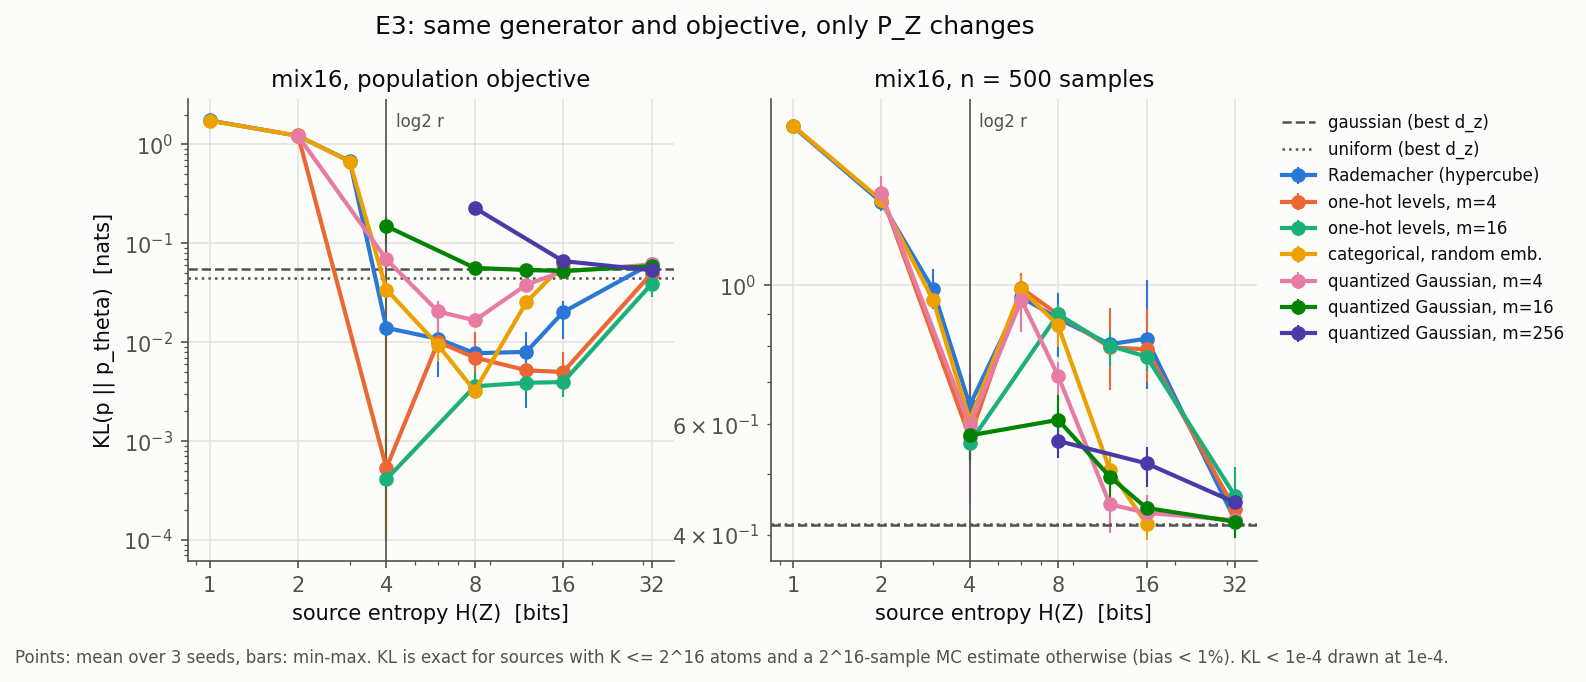
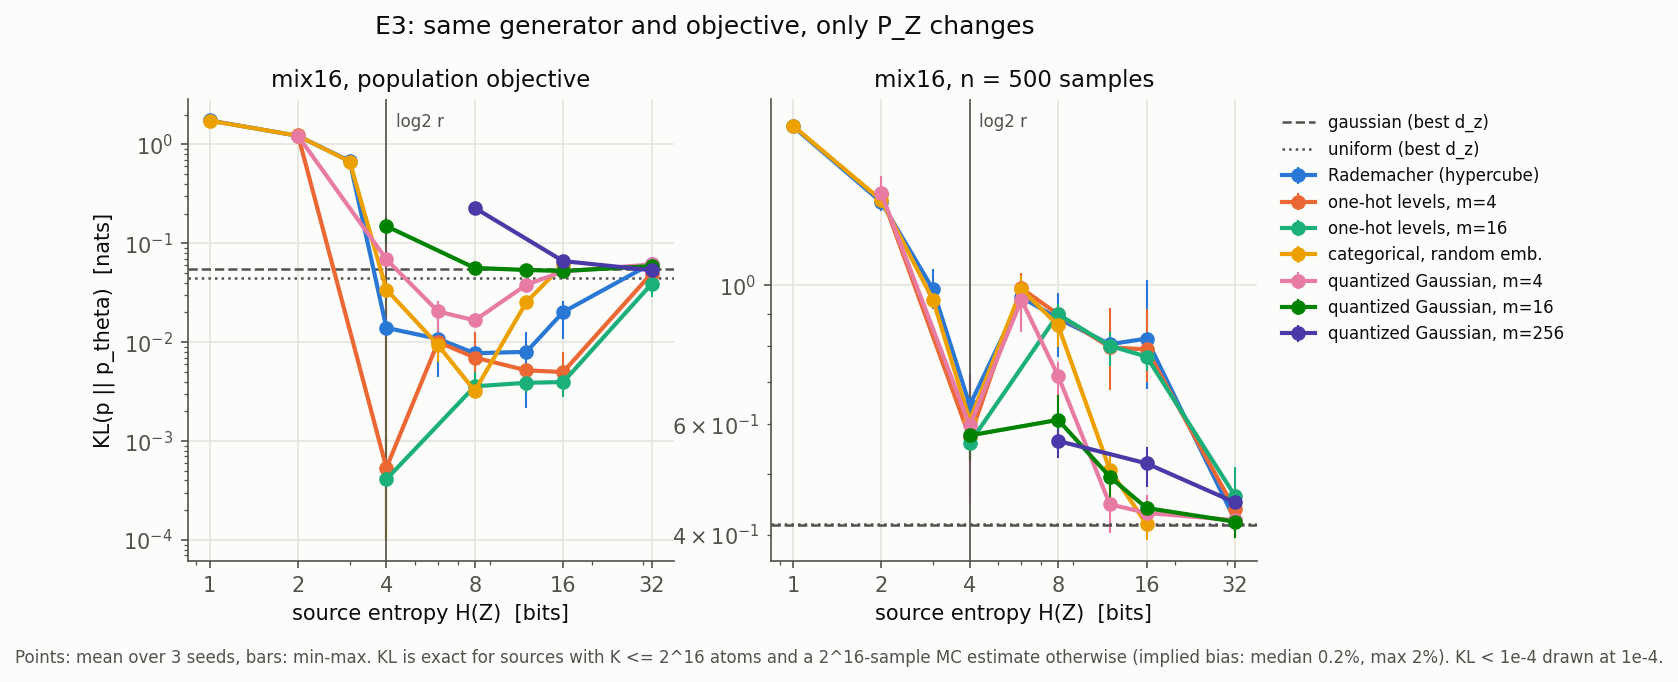
Final-check fixes: marginalization asymmetry, refined E7b, precise bounds and numbers
- E7b rerun at ds=0.0025 with marginal check every 20 steps (<= 9e-4 TV) and a ds vs 2ds
  Euler estimate (<= 0.007 nats, 0.005 bits): I = 1.31/1.25/0.64 bits, student KL 1.41/1.07/2.14
- Claim corrected: random jump times do not force a stochastic endpoint coupling; the precise
  asymmetry is that marginalizing an independent-coupling path yields a non-branching ODE in
  continuous space but a branching CTMC in discrete space; deterministic discrete couplings
  exist but must be constructed (KR, OT, rectification)
- rank bound stated on support size (Wyner common information in general)
- E8 ratios restricted to K>=64; Gaussian comparison by d; DFM points 10-14% above curves
  (verified on dense alpha sweep); copy kernel ratio 1.2-1.7x; README exceptions/objective scope

diff --git a/onestep-discrete/sweeps/e7b_dfm.py b/onestep-discrete/sweeps/e7b_dfm.py
@@ -37,7 +37,7 @@ def posterior_marginals(p, t, ohx):
     return (post @ ohx).view(-1, D.L, D.V)
 
 
-def dfm_joint(p, s_max=12.0, ds=0.005):
+def dfm_joint(p, s_max=12.0, ds=0.0025, check_every=20):
     """Joint P(X_0, X_T) of the marginal CTMC, T = 1 - exp(-s_max). Returns it and a marginal check."""
     S = len(p)
     ohx = onehot(D.STATES.to(DEV), D.V)
@@ -57,7 +57,7 @@ def dfm_joint(p, s_max=12.0, ds=0.005):
             inflow = G.movedim(1 + i, -1).sum(-1).movedim(-1, 1 + i)  # sum over old value v
             dP += (inflow - out).reshape(S, S)
         P = P + ds * dP
-        if k % 500 == 0:  # the marginal of X_t must equal p_t
+        if k % check_every == 0:  # the marginal of X_t must equal p_t
             pt = log_joint_t(p, 1 - math.exp(-(k + 1) * ds), ohx).logsumexp(1).exp()  # time after the step
             worst_tv = max(worst_tv, D.tv(pt, P.sum(0)))
     return P, worst_tv
@@ -72,9 +72,12 @@ def main():
         p = D.make(fam).to(DEV)
         P, worst_tv = dfm_joint(p)
         kl, mi, hz = student_from_joint(p, P.clamp_min(1e-300).log())
+        P2, _ = dfm_joint(p, ds=0.005, check_every=10**9)  # coarser step: Euler error estimate
+        kl2, mi2, _ = student_from_joint(p, P2.clamp_min(1e-300).log())
         res = {"family": fam, "tc": D.total_correlation(p), "H_bits": D.entropy(p) / math.log(2),
                "student_kl": kl, "I_bits": mi, "HZ_bits": hz, "mass": P.sum().item(),
-               "final_tv_to_p": D.tv(p, P.sum(0)), "max_tv_marginal_vs_pt": worst_tv}
+               "final_tv_to_p": D.tv(p, P.sum(0)), "max_tv_marginal_vs_pt": worst_tv,
+               "euler_diff_kl": kl2 - kl, "euler_diff_I_bits": mi2 - mi}  # ds vs 2*ds
         print(res, flush=True)
         out.write_text(json.dumps(res, indent=1))
 

diff --git a/onestep-discrete/plots.py b/onestep-discrete/plots.py
@@ -129,7 +129,7 @@ def fig_e3():
         ax.set_xticks([1, 2, 4, 8, 16, 32], [1, 2, 4, 8, 16, 32])
     axes[0][0].set_ylabel("KL(p || p_theta)  [nats]")
     fig.text(0.0, -0.06, "Points: mean over 3 seeds, bars: min-max. KL is exact for sources with K <= 2^16 atoms "
-             f"and a 2^16-sample MC estimate otherwise (bias < 1%). {FLOOR_NOTE}.", fontsize=8, color=INK2)
+             f"and a 2^16-sample MC estimate otherwise (implied bias: median 0.2%, max 2%). {FLOOR_NOTE}.", fontsize=8, color=INK2)
     axes[0][-1].legend(loc="upper left", bbox_to_anchor=(1.02, 1), fontsize=8)
     fig.suptitle("E3: same generator and objective, only P_Z changes", y=1.02)
     save(fig, "e3_sources.png")

diff --git a/REPORT.md b/REPORT.md
@@ -12,10 +12,11 @@ by Z. Every one-step generator that works well gets Z from **continuous** noise.
 > What exactly is missing from a discrete source of randomness? How much of it is
 > information theory (a hard limit), and how much is geometry and optimization (a soft limit)?
 
-## The answer in one paragraph
+## The answer
 
-Information theory gives a hard limit, and it is real but cheap. Z must carry at least log₂(rank)
-bits. Below that every source fails identically. Above it, **representation is not the problem**:
+Information theory gives a hard limit, and it is real but cheap. A uniform source needs at least
+rank(p) atoms, i.e. log₂K ≥ log₂ rank bits. (For non-uniform sources the general Shannon bound is
+Wyner's common information, which is ≤ log₂ rank.) Below that every source fails alike. Above it, **representation is not the problem**:
 with K atoms the achievable KL is tiny, and on an equal-weight mixture the best discrete sources
 (well-separated atoms) fit *better* than Gaussian. The plan's main conjecture H4 is **falsified as
 stated**. What discrete noise lacks is what one-step *training* relies on:
@@ -26,37 +27,43 @@ stated**. What discrete noise lacks is what one-step *training* relies on:
    means moving whole atoms. In the hard-assignment limit the mode masses are piecewise constant
    in θ. With softmax outputs, an atom moving between codewords must cross product distributions
    that leak onto non-codewords, and saturated atoms have vanishing gradients. Empirically the
-   allocation error is **flat (within ±6%) from step 1k to step 16k**. Total KL stays
-   **12× to more than 10⁴× above what the atoms could achieve**, and on unequal weights every
-   finite source but one fits *worse* than Gaussian. *(E8)*
+   allocation error is **flat (within ±6%) from step 1k to step 16k**. For K ≥ 64 atoms, total KL
+   stays **12× to more than 10⁴× above what the atoms could achieve**. On unequal weights the
+   best Gaussian (d = 2, 0.018) fits better than every finite source. *(E8)*
 2. **A deterministic noise → data transport to learn from.** At scale, one-step generators are
    trained by regressing onto a coupling (z, x) from a teacher or an encoder, because the
-   likelihood needs ~2^I(X;Z) source samples per step *(E6)*. A continuous state space has a
-   probability-flow ODE whose coupling is deterministic (for argmax-decoded tokens,
-   I(Z;X) = H(X)). A finite state space cannot have one. A deterministic map on a finite set
-   cannot split an atom's mass, and there are only finitely many such maps, so pushforward
-   probabilities are quantized and cannot follow a continuous marginal path p_t. Every
-   diffusion- or flow-style discrete teacher must inject fresh randomness, and its coupling is
-   **stochastic**. How much information survives depends on the sampler:
-   * the time-reversed noising chain started from its prior keeps none: **I(Z;X) = 0**, student
-     KL = TC(p) exactly, even with H(Z) = 12 bits;
-   * an exact **Discrete Flow Matching** teacher keeps a little: I = 1.25–1.30 bits of H(X) ≈ 8.6,
-     and the student KL is 1.07–1.41 vs TC 1.75–2.01.
+   likelihood needs ~2^I(X;Z) source samples per step *(E6)*. Generative teachers are built by
+   *marginalizing* a path between independent noise and data. The two state spaces then behave
+   differently:
+   * **Continuous space.** Averaging the conditional velocities gives one vector field, and ODE
+     trajectories cannot branch. The teacher's noise → data map is therefore deterministic for
+     free (for argmax-decoded tokens, I(Z;X) = H(X)).
+   * **Finite space.** Averaging the conditional rates gives a CTMC that can jump from one state
+     to several targets. It branches, so the coupling is **stochastic**:
+     * the time-reversed noising chain started from its prior keeps nothing: **I(Z;X) = 0**, and
+       the student's KL = TC(p) exactly, even with H(Z) = 12 bits;
+     * an exact **Discrete Flow Matching** teacher keeps a little: ~1.3 of ~8.6 bits on mix16
+       and Markov, with student KL 1.07–1.41 vs TC 1.75–2.01.
 
-   Either way the student is far from what a deterministic coupling would allow (KL → 0). *(E7, E7b)*
+   Deterministic discrete couplings do exist: an inverse-CDF sampler driven by Z, OT
+   assignments, special CTMCs, iterative rectification as in ReDi. But they have to be
+   *constructed* rather than obtained by marginalization, and they are only useful when the
+   source geometry is aligned with them (point 3). *(E7, E7b)*
 3. **Geometry aligned with that transport**, so the coupling is learnable on unseen z.
    Discreteness itself costs nothing here. On Markov data, an ordered 64-level grid of inverse-CDF
-   uniforms matches continuous uniforms (held-out token accuracy 0.865 vs 0.858). The *same source
+   uniforms matches continuous uniforms (held-out token accuracy 0.865 vs 0.858), and per-position
+   tokens aligned by Hamming-OT match a Gaussian OT coupling. The *same source
    law* with its levels shuffled falls to the best z-independent baseline (0.368 vs 0.379). *(E4)*
 
 So "one-step should be continuous" means: the source should be **atomless** so mass can flow; the
-training coupling should come from a **deterministic transport**, which only continuous-state
-dynamics provide; and the noise needs **geometry aligned with that transport**. Continuous noise
+training coupling should come from a **deterministic transport**, which continuous-state
+marginalization provides for free and discrete marginalization does not; and the noise needs
+**geometry aligned with that transport**. Continuous noise
 gives all three for free. Discrete noise supplies bits, but none of these by default.
 
 | | hard (information) | soft (optimization / geometry) |
 |---|---|---|
-| what limits | H(Z) ≥ log₂ rank(p). Below it every source fails (E1, E3). | mass allocation (E8); information *in the training coupling* (E7); coupling learnability (E4) |
+| what limits | K ≥ rank(p) atoms for a uniform source (Wyner's common information in general). Below it every source fails (E1, E3). | mass allocation (E8); information *in the training coupling* (E7); coupling learnability (E4) |
 | binding in practice? | only for mask-type noise (H(Z) = 0 ⇒ KL = TC exactly) | yes: these separate discrete from continuous |
 | continuous noise fixes it by | n/a | atomless source ⇒ mass moves with boundaries; ODE ⇒ deterministic coupling; metric ⇒ smooth coupling |
 
@@ -75,14 +82,18 @@ information **I(Z;X) of the training coupling**, not the entropy H(Z) of the sou
   * `code<r>`: r codewords of the distance-2 parity code, so rank = r exactly;
   * `zipf16`: 16 such codewords with Zipf weights.
 * **Generator**: MLP z → 256 → 256 → 6×4 logits, SiLU, Adam 1e-3 with cosine decay.
-* **Objective** (identical for every source): −Σₓ w(x) log (1/N) Σₙ ∏ᵢ p_θ(xᵢ|zₙ), with N = 256
-  fresh source samples per step and w = p (population) or the empirical distribution of n samples.
+* **Objective** (identical for every source within an experiment): −Σₓ w(x) log (1/N) Σₙ ∏ᵢ p_θ(xᵢ|zₙ),
+  with w = p (population) or the empirical distribution of n samples. E3 uses N = 256 fresh source
+  samples per step; E3b, E6, and E8 vary N or enumerate all atoms, as stated. E4 instead uses
+  supervised regression (CE) on fixed pairs.
 * **Metrics**: KL(p‖p_θ), TV, TC(p_θ). They are exact for finite sources with K ≤ 2¹⁶ atoms. For
-  continuous sources and larger K we use a 2¹⁶-sample MC estimate. Re-evaluating 151 MC runs with
+  continuous sources and larger K (including the H = 32 discrete sources) we use a 2¹⁶-sample MC
+  estimate. Re-evaluating 151 MC runs with
   2¹⁴ samples changes KL by a median of 0.5% (90th percentile 3%, max 10%), i.e. an implied bias
   of ≤ 3.4% (median 0.2%).
 * Each run writes one JSON (config, metrics, trajectory, wall time). Figures are built from the
-  JSONs only (`onestep-discrete/plots.py`). E3b, E6, and E7b use one seed; everything else uses 3.
+  JSONs only (`onestep-discrete/plots.py`). E3b and E6 use one seed, E7 and E7b are exact computations,
+  and everything else uses 3 seeds.
 
 ---
 
@@ -184,7 +195,7 @@ version answers the mechanistic question.
 | 1 | not enough bits | **real but cheap**; binding only for mask-type noise | E1, E3 |
 | 2 | discrete sources cannot represent the data | **no**; K atoms can represent it almost exactly | E3, E3b, E8 |
 | 3 | the likelihood objective does not scale | **true for every source** (continuous is worse), so practice uses couplings | E6 |
-| 4 | discrete teachers give poor couplings | **yes**: always stochastic; I = 0 for the reversed chain, partial for DFM | E7, E7b |
+| 4 | discrete teachers give poor couplings | **yes, for marginalized (independent-coupling) teachers**: I = 0 for the reversed chain, partial for DFM | E7, E7b |
 | 5 | discrete couplings are not learnable | **only without aligned geometry**; ordered discrete = continuous | E4 |
 | 6 | atomic sources cannot reallocate mass | **yes**: allocation flat for atoms, → 0 for continuous | E8 |
 
@@ -218,8 +229,9 @@ generates p_G(x) = Σ_z π(z) ∏ᵢ q(xᵢ|z). We compute it exactly for two te
   starting the reversed chain from the α-marginal, which is *not* the prior.
 * **E7b: Discrete Flow Matching teacher.** This is the marginal CTMC of the mixture path, started
   from Uniform(V^L), with rates P(X₁ᵢ = y | X_t)/(1−t). We integrate the forward Kolmogorov equation
-  for the joint of (X₀, X_t) over all 4,096 × 4,096 pairs; the marginal matches p_t to
-  ≤ 7·10⁻⁴ TV throughout.
+  for the joint of (X₀, X_t) over all 4,096 × 4,096 pairs (Euler in s = −log(1−t), step 0.0025).
+  The marginal matches p_t to ≤ 9·10⁻⁴ TV, checked every 20 steps. Doubling the step changes the
+  student KL by ≤ 0.007 nats and I by ≤ 0.005 bits.
 
 ![E7](onestep-discrete/figures/e7_teacher_coupling.png)
 
@@ -227,23 +239,28 @@ generates p_G(x) = Σ_z π(z) ∏ᵢ q(xᵢ|z). We compute it exactly for two te
 |---|---|---|---|
 | reversed noising chain (uniform prior) | 12 bits | **0 / 0 / 0** | 2.013 / 1.753 / 6.931 (= TC) |
 | reversed masking chain (all-mask prior) | 0 bits | 0 / 0 / 0 | = TC |
-| DFM marginal CTMC (uniform prior) | 12 bits | 1.30 / 1.25 / 0.64 | 1.41 / 1.07 / 2.15 |
+| DFM marginal CTMC (uniform prior) | 12 bits | 1.31 / 1.25 / 0.64 | 1.41 / 1.07 / 2.14 |
 | *deterministic coupling (e.g. ODE + argmax)* | | *= H(X): 8.7 / 8.6 / 2.0* | *→ 0* |
 
 * Twelve bits of prior noise give nothing through the reversed chain. A DFM teacher recovers
   30–69% of TC, but its coupling is still stochastic, so a one-step student cannot get close.
-* On mix16 and Markov the student's error is essentially a function of the coupling's I(Z;X), and
-  the DFM points fall on the forward-joint curves. On copy the masking kernel is 1.7–2.6× better
-  than the uniform kernel at equal I, because one unmasked token pins the whole sequence.
-* Why discrete teachers are stochastic: a deterministic map on a finite set cannot split an atom's
-  mass, and there are only finitely many maps. So deterministic dynamics give quantized
-  pushforward probabilities and cannot follow a continuous marginal path p_t, and any
-  diffusion/flow-style discrete sampler must inject fresh randomness. Continuous diffusion's SDE
-  sampler has the same problem (I(Z_T; X₀) → 0), but it also has a probability-flow ODE with the
-  same marginals and a deterministic coupling. That is what consistency models, flow maps,
-  MeanFlow, FMLM, and Duo distill.
-* A one-shot deterministic map with discrete noise does exist (E4's KR coupling). But it is the
-  sampler with its per-step uniforms moved into Z: continuous or ordered noise.
+* The student's error is mostly a function of the coupling's I(Z;X). On mix16 and Markov the DFM
+  points sit 10–14% above the forward-joint curves at the same I. On copy the masking kernel is
+  1.2–1.7× better than the uniform kernel at equal I, because one unmasked token pins the whole
+  sequence.
+* Why marginalized discrete teachers are stochastic: a teacher is built by averaging conditional
+  dynamics over an independent coupling of noise and data. In continuous space the average is a
+  velocity field, ODE trajectories cannot branch, and the endpoint map is deterministic.
+  Continuous diffusion's SDE sampler is as uninformative as the reversed chain
+  (I(Z_T; X₀) → 0), but its probability-flow ODE has the same marginals and a deterministic
+  coupling. That is what consistency models, flow maps, MeanFlow, FMLM, and Duo distill. In a
+  finite space the average is a jump-rate matrix: from one state the chain can jump to several
+  targets, so the endpoint is random given the start.
+* Deterministic discrete couplings are possible, but they must be built rather than inherited.
+  Examples: E4's inverse-CDF (KR) map, which moves the sampler's per-step uniforms into Z;
+  OT assignments; CTMCs whose state remembers the start (an independent reviewer gave one that
+  maps uniform noise to `copy` deterministically); and iterative rectification as in ReDi. Such
+  couplings are only learnable when the source geometry is aligned with them (E4).
 
 ### (5) A deterministic coupling is learnable iff the source geometry is aligned with it (E4)
 
@@ -289,15 +306,18 @@ upper bound on the best total KL with K atoms.
 | source | total KL | achievable with K atoms | allocation @1k → @16k | leakage @1k → @16k |
 |---|---|---|---|---|
 | categorical K = 16 / 64 / 256 / 1024 / 4096 | 0.454 / 0.065 / 0.059 / 0.060 / 0.036 | 0.41 / 0.0054 / 3·10⁻⁴ / 2·10⁻⁵ / 10⁻⁶ | 0.28 / 0.065 / 0.055 / 0.049 / 0.028 → same ±6% | 0.17 / 0.000 / 0.011 / 0.022 / 0.021 → 0.17 / 0.000 / 0.003 / 0.011 / 0.008 |
-| Rademacher d = 4 / 6 / 8 / 10 / 12 | 0.659 / 0.123 / 0.055 / 0.052 / 0.025 | same as K = 2^d | 0.45 / 0.12 / 0.053 / 0.050 / 0.022 → same ±6% | 0.21 / 0.006 / 0.006 / 0.006 / 0.010 → 0.21 / 0.005 / 0.003 / 0.001 / 0.003 |
+| Rademacher d = 4 / 6 / 8 / 10 / 12 | 0.659 / 0.123 / 0.055 / 0.052 / 0.024 | same as K = 2^d | 0.45 / 0.12 / 0.053 / 0.050 / 0.022 → same ±6% | 0.21 / 0.006 / 0.006 / 0.006 / 0.010 → 0.21 / 0.005 / 0.003 / 0.001 / 0.003 |
 | Gaussian d = 2 / 4 / 8 | **0.018 / 0.027 / 0.027** | n/a | 0.003 / 0.004 / 0.005 → **0.0002 / 0.0003 / 0.0003** | 0.10 / 0.12 / 0.13 → 0.018 / 0.027 / 0.026 |
 
-* Finite sources settle their mass allocation in the first 1k steps and then barely move it. Their
-  total KL is 12× (K = 64) to more than 10⁴× (K = 4096) above what their atoms could achieve.
+* Finite sources settle their mass allocation in the first 1k steps and then barely move it. For
+  K ≥ 64 their total KL is 12× (K = 64) to more than 10⁴× (K = 4096) above what their atoms could
+  achieve. At K = 16 the gap is 1.1–1.6×, and two categorical seeds even beat the achievable value
+  by spreading atoms over codewords: it is an upper bound on the optimum, not a lower bound.
 * The Gaussian source gets the allocation right. Its residual allocation error (~2·10⁻⁴) is about
   half evaluation noise: the multinomial bias of a 2¹⁶-sample estimate over 16 modes is ≈1.1·10⁻⁴.
-  All its remaining error is boundary leakage, which keeps shrinking. On total KL it beats every
-  finite source except Rademacher d = 12, which ties it (0.025).
+  All its remaining error is boundary leakage, which keeps shrinking. On total KL, Gaussian d = 2
+  (0.018) beats every finite source. Rademacher d = 12 (0.024) beats Gaussian d = 4 and 8
+  (0.027).
 * Mechanism. For a continuous source with a density, the hard-partition mass P(z ∈ R_c(θ)) has a
   derivative equal to the flux of source density through the moving boundary ∂R_c, so mass flows
   under gradient descent. For an atomic source that quantity is piecewise constant. With soft
@@ -318,14 +338,16 @@ upper bound on the best total KL with K atoms.
 * **If the noise must be discrete, make it dense and ordered, aligned with the coupling.**
   Quantized uniforms driving an inverse-CDF sampler, or Hamming-OT-aligned tokens, are as learnable
   as continuous noise. Unordered symbols are not.
-* **A discrete teacher is a weak source of couplings.** Its reversed chain gives I(Z;X) = 0 at the
-  prior, and even an exact DFM teacher keeps only ~1.3 of ~8.6 bits.
+* **A marginalized discrete teacher is a weak source of couplings.** Its reversed chain gives
+  I(Z;X) = 0 at the prior, and even an exact DFM teacher keeps only ~1.3 of ~8.6 bits. Build
+  the coupling instead (OT, inverse-CDF, rectification), with aligned geometry.
 
 ## Limitations
 
 * Toy scale: L = 6, V = 4, one MLP architecture, fixed budgets (4k–16k steps). Effects that only
   appear at scale (attention, long sequences) are not tested.
-* E3b, E6, and E7b use one seed (E7b is deterministic up to Euler error ≤ 7·10⁻⁴ TV).
+* E3b and E6 use one seed. E7b is deterministic; its Euler discretization moves the reported
+  numbers by ≤ 0.007 nats and ≤ 0.005 bits.
 * E4 trains G on 3,276 pairs, so its deployed KL is dominated by memorization and the held-out law
   uses only 820 atoms for code/one-hot. We report held-out accuracy as the learnability metric.
   The FM teacher in E4 is imperfect on mix16 (target TV 0.36 vs a 0.18 sampling floor); an

diff --git a/onestep-discrete/results/agy_review4.md b/onestep-discrete/results/agy_review4.md
@@ -1,0 +1,62 @@
+1.
+Location: onestep-discrete/sweeps/e7b_dfm.py (lines 60-62); REPORT.md (lines 221-222, 230, 328)
+Claim: e7b_dfm.py logs max_tv_marginal_vs_pt as a marginal check throughout integration; REPORT.md (lines 221-222) claims "the marginal matches p_t to <= 7e-4 TV throughout", and REPORT.md (line 328) claims "E7b is deterministic up to Euler error <= 7e-4 TV".
+Truth: The DFM marginal CTMC rates, forward Kolmogorov equation, inflow/outflow tensor indexing, and s = -log(1 - t) time change are correct (verified to 3.1e-13 TV against scipy DOP853 on V = 3, L = 3), but the marginal check and reported error bound are wrong in three ways:
+  (a) Even in the saved JSONs, onestep-discrete/results/e7/markov_dfm.json has max_tv_marginal_vs_pt = 0.0007121 (7.12e-4), which already exceeds 7e-4.
+  (b) e7b_dfm.py line 60 checks only `if k % 500 == 0:`, evaluating 5 of 2,400 steps (k = 0, 500, 1000, 1500, 2000, i.e. t = 0.005, 0.918, 0.993, 0.9994, 0.99995) and skipping t in (0.005, 0.918) where the Euler marginal TV error peaks. Checking across the full trajectory gives peak marginal TV against p_t of 7.10e-4 on mix16 (at k = 190, t = 0.615; logged 5.38e-4), 8.88e-4 on markov (at k = 170, t = 0.575; logged 7.12e-4), and 1.80e-3 on copy (at k = 240, t = 0.700; logged 5.54e-4, understated by 3.25x).
+  (c) REPORT.md line 328 conflates marginal TV with Euler error of the joint coupling and student metrics. On copy, refining ds from 0.005 to 0.001 shifts student_kl from 2.1482 to 2.1366 (Richardson limit ~2.134, ~0.015 nats Euler error) and I_bits from 0.6414 to 0.6453 (limit ~0.646, ~0.005 bits), affecting the last reported decimal digit for copy in REPORT.md line 230 (2.15 and 0.64 vs true CTMC ~2.13 and 0.65).
+Confidence: High
+
+2.
+Location: README.md (lines 16, 22); REPORT.md (lines 30, 295-296)
+Claim: In E8, finite sources' total KL is "12x-10^4x above what the atoms allow" (README.md:16), "far above what their K atoms could achieve (dashed)" (README.md:22), "12x to more than 10^4x above what the atoms could achieve" (REPORT.md:30), and "Their total KL is 12x (K = 64) to more than 10^4x (K = 4096) above what their atoms could achieve" (REPORT.md:295-296).
+Truth: E8 also tests K = 16 (categorical K = 16 and Rademacher d = 4), where onestep-discrete/results/e8/floors.json gives 0.4137. Mean total KL is 0.4539 for categorical K = 16 (1.10x, not >= 12x) and 0.6586 for Rademacher d = 4 (1.59x). Furthermore, two of three categorical K = 16 seeds (s0: 0.3875, s2: 0.3786; s1: 0.5955) beat 0.4137, showing that README.md's phrasing "what the atoms allow" overstates achievable(K) (which REPORT.md:284-285 correctly defines as an upper bound from sharp single-codeword assignment, not a hard lower bound). The 12x to >10^4x range (12.1x to 35,570x) applies only to K >= 64.
+Confidence: High
+
+3.
+Location: REPORT.md (lines 30-31, 292, 299-300)
+Claim: The E8 table (line 292) gives Rademacher d = 12 total KL as 0.025; lines 30-31 state "on unequal weights every finite source but one fits worse than Gaussian"; lines 299-300 state "On total KL it beats every finite source except Rademacher d = 12, which ties it (0.025)."
+Truth: In onestep-discrete/results/e8/zipf16_pop_quantized_d12_m2_Nenum_s{0,1,2}.json, the three seeds are 0.012578, 0.032567, and 0.028207, whose mean is 0.024451, rounding to 0.024 rather than 0.025. Also, the Gaussian comparison depends on d: Gaussian d = 2 (0.0178) beats every finite source (including Rademacher d = 12, which is 38% worse), whereas Gaussian d = 4 (0.0270) and d = 8 (0.0266) are beaten by Rademacher d = 12 (0.0245). It approximates a tie only against the unstated pooled mean across Gaussian d = 2, 4, 8 (0.0238).
+Confidence: High
+
+4.
+Location: REPORT.md (lines 236-237)
+Claim: "On copy the masking kernel is 1.7-2.6x better than the uniform kernel at equal I, because one unmasked token pins the whole sequence."
+Truth: On copy, the masking kernel's exact student KL at mutual information I (bits) is KL_mask(I) = -log(I/2 + (1 - I/2) * 4^-5). Comparing exact uniform student_law against exact KL_mask(I) at identical I across all uniform rows in onestep-discrete/results/e7/copy.json (alpha = 0.02..0.9, I = 0.005..1.998) yields KL_unif / KL_mask = 1.21-1.73x (and 1.61-1.74x over a dense sweep I in [0.1, 1.98]; even at alpha = 0.999, 2 - I = 9.6e-10, the ratio is 1.91x). The 2.6x figure is an artifact of log-linearly interpolating between coarse mask rows in copy.json (alpha = 0.3 and 0.5) at I = 1.9067, which underestimates KL_mask as 0.0296 instead of 0.0477 (0.0774 / 0.0296 = 2.62 vs true 1.62).
+Confidence: High
+
+5.
+Location: README.md (lines 17, 33); REPORT.md (lines 43-44, 322)
+Claim: README.md line 33 (caption for e7_teacher_coupling.png, which plots stars for copy, markov, and mix16) states "An exact Discrete Flow Matching teacher (stars) keeps ~1.3 bits and the student is still far from the data." README.md line 17, REPORT.md lines 43-44, and REPORT.md line 322 cite ~1.3 of 8.6 bits (or I = 1.25-1.30 bits of H(X) ~ 8.6, student KL 1.07-1.41 vs TC 1.75-2.01) without specifying that this excludes copy.
+Truth: Per onestep-discrete/results/e7/copy_dfm.json, the copy DFM star is at I = 0.641 bits out of H(X) = 2.000 bits (32% of H(X), student KL 2.148 vs TC 6.931, recovering 69% of TC), not ~1.3 bits. Only markov (1.250 of 8.559 bits) and mix16 (1.304 of 8.704 bits) lie in the 1.25-1.30 of ~8.6 range.
+Confidence: High
+
+6.
+Location: REPORT.md (lines 235-236)
+Claim: "On mix16 and Markov the student's error is essentially a function of the coupling's I(Z;X), and the DFM points fall on the forward-joint curves."
+Truth: At DFM's exact I(Z; X), DFM student KL is 10-14% higher than both forward-joint curves rather than on them: on mix16 (I = 1.3038 bits), DFM KL is 1.4147 vs uniform forward-joint 1.2819 (+10.4%) and mask forward-joint 1.2726 (+11.2%); on markov (I = 1.2498 bits), DFM KL is 1.0693 vs uniform 0.9360 (+14.2%) and mask 0.9589 (+11.5%).
+Confidence: High
+
+7.
+Location: README.md (lines 5-6, 97-98); embedded E3 figure via onestep-discrete/plots.py (line 132) in REPORT.md (line 126)
+Claim: README.md lines 5-6 state "The one exception is continuous noise, which uses large-sample estimates with < 4% bias." README.md lines 97-98 state "One generator (MLP, 3 layers, width 256) and one objective for every source: ... with N = 256 fresh samples per step. Only P_Z changes." The E3 figure footnote (plots.py:132, rendered in REPORT.md:126) states "bias < 1%".
+Truth: Continuous noise is not the only exception: exact.py line 32 also uses 2^16-sample MC evaluation for finite sources with K > 2^16, and 39 of the 151 MC-evaluated runs in results/ (exact_eval: false) are discrete (H = 32 configs in E3 and E3b), as README.md lines 99-100 itself notes. In addition, N = 256 describes E3, not all experiments: E8 uses the enumerated objective for finite sources and N = 1024 for Gaussian, E3b uses N = 256 and 1024, E6 sweeps N in {16..4096} plus enumerated, and E4 uses supervised regression CE (plus width 512 for the FM velocity net). Finally, within E3 itself, the quarter-N implied bias (kl_quarter - kl) / (3 * kl) reaches 2.07% (onestep-discrete/results/e3/mix16_pop_onehot_d8_m16_N256_s2.json), exceeding the "< 1%" printed in the E3 figure footnote.
+Confidence: High
+
+8.
+Location: README.md (line 17); REPORT.md (lines 36-40, 52-54, 238-241, 321-322)
+Claim: Because a deterministic map on a finite set cannot follow a continuous marginal path p_t, "Every diffusion- or flow-style discrete teacher must inject fresh randomness, and its coupling is stochastic" (REPORT.md:38-40; similarly README.md:17 and REPORT.md:238-241), and "the training coupling should come from a deterministic transport, which only continuous-state dynamics provide" (REPORT.md:53-54).
+Truth: Stochastic intermediate dynamics (random jump times in a CTMC) do not imply a stochastic endpoint coupling (X_0, X_1). Counterexample on copy: start X_0 ~ Uniform(V^L), keep position 0 fixed (rate 0), and for i = 1..5 jump x_i -> x_0 at rate 1 / (1 - t) whenever x_i != x_0. This finite-state CTMC realizes the smooth continuous marginal path p_t(x) = (1/V) prod_{i>=1} [t 1[x_i = x_0] + (1 - t)/V] from Uniform(V^L) to copy, yet yields the 100% deterministic endpoint coupling X_1 = (X_{0,0}, ..., X_{0,0}) a.s., with I(X_0; X_1) = H(X_1) = 2 bits and student KL = 0. Even for non-quantized targets mix16 and markov, monotone couplings from Uniform(4096) retain 8.43 / 8.70 (96.8%) and 8.28 / 8.56 (96.7%) of H(X). What limits E7b's DFM teacher to 1.25-1.30 bits (or 0.64 on copy) is specifically the independent-coupling (p_0 x p_1) uniform mixture path, not finiteness of the state space alone; coupled or rectified discrete flows (such as OT-DFM or ReDi) are not tested.
+Confidence: High
+
+9.
+Location: README.md (line 15); REPORT.md (lines 17, 59)
+Claim: "H(Z) >= log2 rank(p)" (README.md:15, REPORT.md:59) and "Information theory gives a hard limit, and it is real but cheap. Z must carry at least log2(rank) bits. Below that every source fails identically." (REPORT.md:17).
+Truth: Nonnegative tensor rank lower-bounds support size |supp(Z)| >= rank_+(p), i.e. Hartley entropy log2 |supp(Z)| >= log2 rank_+(p), not Shannon entropy H(Z) in general. They coincide only for uniform finite sources (the ones tested in E3). Counterexample from this repo: zipf16 has rank_+(p) = 16 (log2 rank = 4.0 bits), yet a non-uniform discrete source Z ~ Zipf(16) achieves KL = 0 with H(Z) = H(zipf16) = 3.403 bits < 4.0. The general information-theoretic lower bound on H(Z) is multi-partite Wyner common information C_W(p) <= log2 rank_+(p).
+Confidence: High
+
+10.
+Location: README.md (line 18)
+Claim: In the summary table row "geometry aligned with that transport, to generalize to unseen z", discrete noise works "only if ordered (ordered 64-level ~ continuous; shuffled = z-independent baseline) | E4".
+Truth: E4 also tests discrete per-position token codes with Hamming-OT (code, which has Hamming/factorial geometry rather than 1-D order) and obtains 0.853 / 0.837 held-out token accuracy (markov / mix16), outperforming continuous Gaussian OT (0.823 / 0.775). Saying "only if ordered" over-narrows aligned geometry to 1-D order (whereas REPORT.md lines 188 and 319 state it accurately by including Hamming-OT tokens).
+Confidence: High

diff --git a/README.md b/README.md
@@ -2,8 +2,9 @@
 
 **Why does every good one-step generator, including the discrete ones, get its randomness from
 continuous noise?** This repo answers that with a small mechanism study: 6 positions × 4 tokens =
-4,096 states, so every distribution is enumerated and the metrics are exact. The one exception is
-continuous noise, which uses large-sample estimates with < 4% bias.
+4,096 states, so every distribution is enumerated and the metrics are exact. The exceptions are
+continuous noise and discrete sources with more than 2¹⁶ atoms, which use large-sample estimates
+(bias ≤ 3.4%).
 
 **Short answer:** bits are not the problem, and neither is representation. With enough entropy,
 discrete noise can represent the data almost exactly. On an equal-weight mixture, well-separated
@@ -12,15 +13,15 @@ discrete atoms even fit *better* than Gaussian noise. What discrete noise lacks 
 
 | what one-step training needs | continuous noise | discrete noise | evidence |
 |---|---|---|---|
-| **enough bits**: H(Z) ≥ log₂ rank(p) | ✓ | ✓ for uniform tokens (✗ for masks: KL = TC exactly) | E1, E2, E3 |
-| **mass that can move between modes** | ✓ mass slides with decision boundaries | ✗ allocation flat from step 1k to 16k, 12×–10⁴× above what the atoms allow | E8 |
-| **a deterministic noise→data transport** to distill from | ✓ probability-flow ODE | ✗ no deterministic transport along a continuous path on a finite set, so teacher couplings are stochastic (I(Z;X) = 0 for the reversed chain, ~1.3 of 8.6 bits for an exact DFM teacher) | E7, E7b, E6 |
-| **geometry aligned with that transport**, to generalize to unseen z | ✓ | only if ordered (ordered 64-level ≈ continuous; shuffled = z-independent baseline) | E4 |
+| **enough bits**: ≥ rank(p) atoms (log₂K ≥ log₂ rank) | ✓ | ✓ for uniform tokens (✗ for masks: KL = TC exactly) | E1, E2, E3 |
+| **mass that can move between modes** | ✓ mass slides with decision boundaries | ✗ allocation flat from step 1k to 16k; for K ≥ 64 total KL 12×–10⁴× above what the atoms could achieve | E8 |
+| **a deterministic noise→data transport** to distill from | ✓ marginalizing velocities gives an ODE that cannot branch | ✗ marginalizing jump rates gives a branching CTMC, so teacher couplings are stochastic (I(Z;X) = 0 for the reversed chain, ~1.3 of 8.6 bits for an exact DFM teacher); deterministic ones must be constructed | E7, E7b, E6 |
+| **geometry aligned with that transport**, to generalize to unseen z | ✓ | only if aligned: order or Hamming structure (ordered 64-level ≈ continuous, Hamming-OT tokens ≈ Gaussian OT; shuffled or one-hot = z-independent baseline) | E4 |
 
 ![mass allocation](onestep-discrete/figures/e8_mass.png)
 
-*E8. Left: total KL of finite sources is far above what their K atoms could achieve (dashed);
-Gaussian is better. Right: each KL is split exactly into mass-allocation error and leakage. Atomic
+*E8. Left: for K ≥ 64, total KL of finite sources is far above what their K atoms could achieve
+(dashed, an upper bound on the optimum); the best Gaussian is better. Right: each KL is split exactly into mass-allocation error and leakage. Atomic
 sources fix their mode weights in the first 1k steps and never correct them. A Gaussian source drives
 allocation error to ~2e-4 (half of that is evaluation noise); its remaining error is boundary
 leakage, which keeps shrinking.*
@@ -30,8 +31,9 @@ leakage, which keeps shrinking.*
 *E7, computed exactly. The best one-step student distilled from a discrete teacher is limited by
 the information I(Z;X) in the teacher's coupling, not by the entropy of the noise. The reversed
 noising chain from its 12-bit prior carries I = 0, so the student is a product (KL = TC), as with
-no noise at all. An exact Discrete Flow Matching teacher (stars) keeps ~1.3 bits and the student
-is still far from the data. A deterministic (ODE-style) coupling would give KL → 0.*
+no noise at all. An exact Discrete Flow Matching teacher (stars) keeps ~1.3 of ~8.6 bits on
+mix16 and Markov (0.6 of 2 on copy), and the student is still far from the data. A deterministic
+(ODE-style) coupling would give KL → 0.*
 
 The full write-up, with every figure, table, caveat, and the hypothesis-by-hypothesis verdicts, is
 in **[REPORT.md](REPORT.md)**. The original study plan is
@@ -73,7 +75,7 @@ python run.py --data mix16 --source gaussian --d 4   # one config -> one JSON in
 python plots.py                           # every figure, from results/*.json only
 ```
 
-Requirements: Python ≥ 3.10, PyTorch ≥ 2.0 (CUDA optional), SciPy, Matplotlib.
+Requirements: Python ≥ 3.10, PyTorch ≥ 2.0 (CUDA optional), SciPy, Matplotlib (`pip install -r onestep-discrete/requirements.txt`).
 
 ## Layout
 
@@ -94,8 +96,9 @@ REPORT.md      the write-up
 
 ## Method notes
 
-* One generator (MLP, 3 layers, width 256) and one objective for every source:
-  −Σₓ w(x) log (1/N) Σₙ ∏ᵢ p_θ(xᵢ | zₙ) with N = 256 fresh samples per step. Only P_Z changes.
+* One generator (MLP, 3 layers, width 256) and, within each experiment, one objective for every
+  source: −Σₓ w(x) log (1/N) Σₙ ∏ᵢ p_θ(xᵢ | zₙ) (N = 256 in E3). Only P_Z changes. E4 uses
+  supervised regression on fixed pairs instead.
 * Every reported KL is exact by enumeration. The exceptions are sources with more than 2¹⁶ atoms
   and continuous sources, which use a 2¹⁶-sample MC estimate (median relative bias 0.2%, max
   3.4%, checked on 151 runs).
